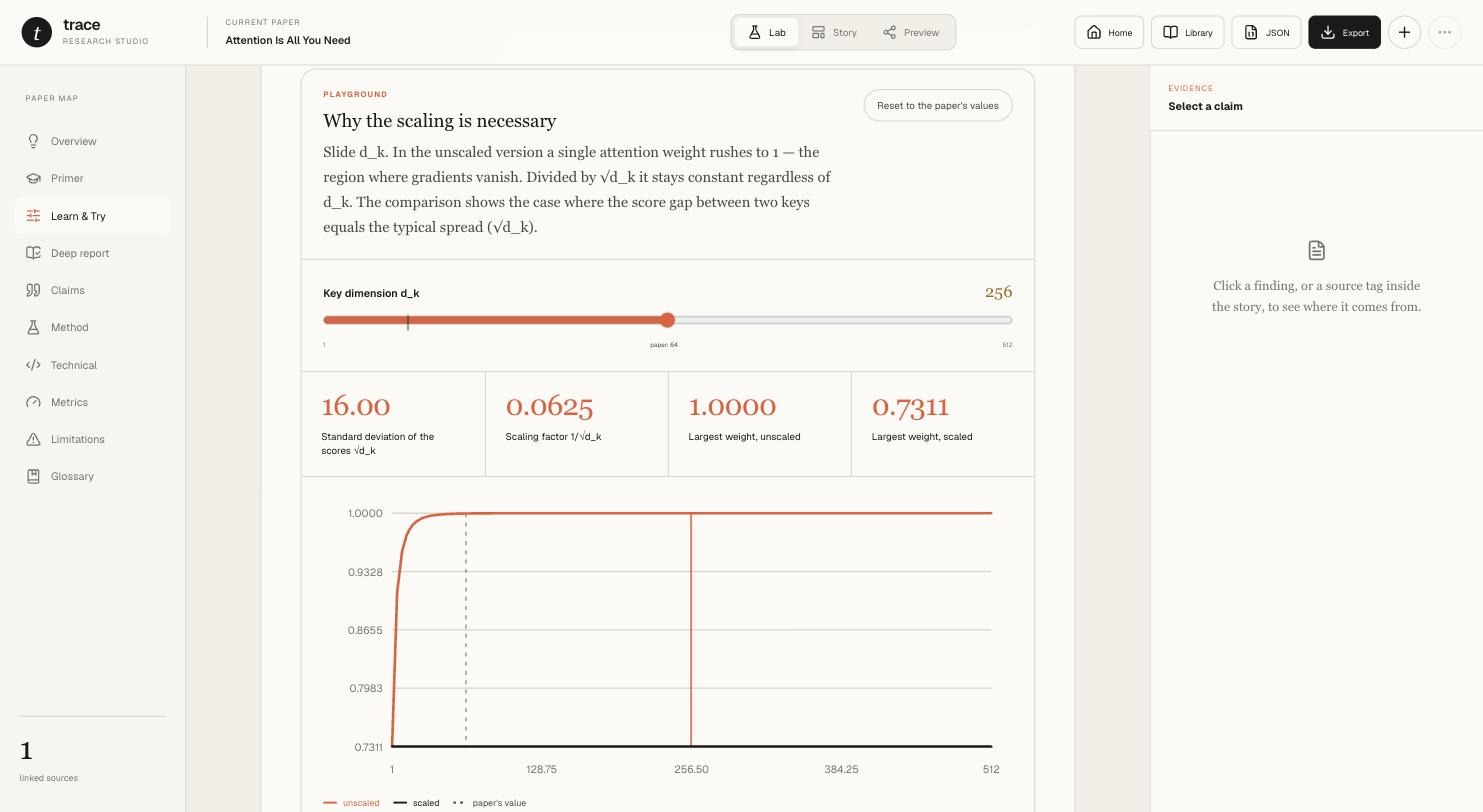
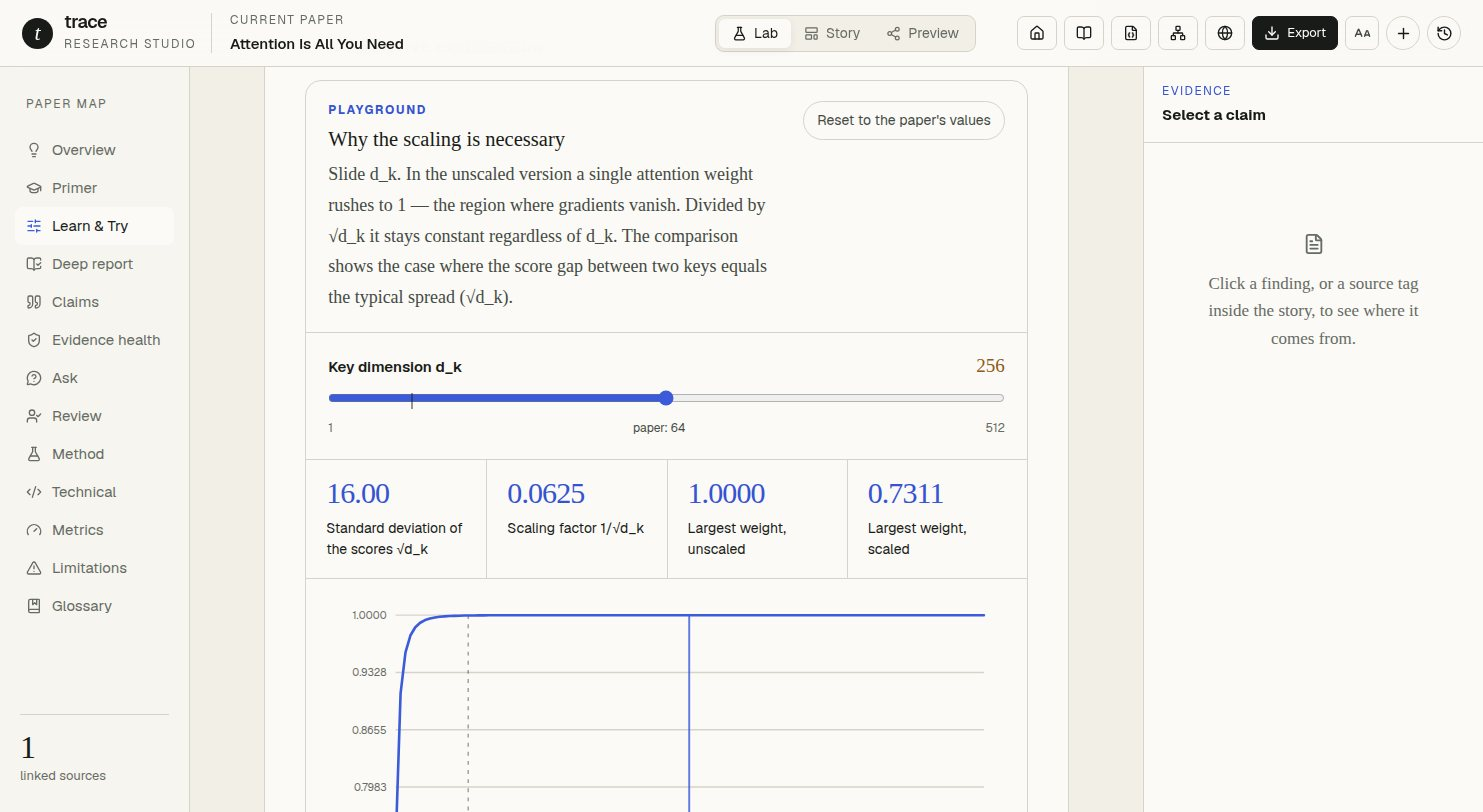
docs: bring the README and its screenshots up to date
- What's new lists everything on main since 0.21: claim search, tags,
  the model record, library sort and list view with undoable deletion,
  the dark theme and text size, and the remembered analysis setup.
- New sections: "Keep a growing library in order" and "Read it the way
  you like" (text size, light / dark / system, readable paper colours,
  the phone section menu, and what the contrast tests check).
- The full application: the remembered setup and More options; keys are
  never stored, in exports or in the browser. Status and roadmap list
  the new work; the architecture notes explain the token tests.
- Every screenshot is retaken from the current build (the old ones
  showed the previous header, smaller type and a Lab without Evidence
  health, Ask and Review), plus the claim search and the dark theme.
- Badge and diagram colours follow the darker amber and muted tokens.

Claude-Session: https://claude.ai/code/session_01G2h2AZCsPvmxhdU5Cg5ADb

diff --git a/README.md b/README.md
@@ -12,9 +12,9 @@ running on the coding agent you already use, with no second API key.
 [![Check](https://img.shields.io/github/actions/workflow/status/Ahmet-Ruchan/trace-research-paper-studio/check.yml?branch=main&style=for-the-badge&label=check&color=2E7254&labelColor=191B18)](https://github.com/Ahmet-Ruchan/trace-research-paper-studio/actions/workflows/check.yml)
 [![Stars](https://img.shields.io/github/stars/Ahmet-Ruchan/trace-research-paper-studio?style=for-the-badge&color=E75B37&labelColor=191B18)](https://github.com/Ahmet-Ruchan/trace-research-paper-studio/stargazers)
 [![Forks](https://img.shields.io/github/forks/Ahmet-Ruchan/trace-research-paper-studio?style=for-the-badge&color=2E7254&labelColor=191B18)](https://github.com/Ahmet-Ruchan/trace-research-paper-studio/network/members)
-[![Issues](https://img.shields.io/github/issues/Ahmet-Ruchan/trace-research-paper-studio?style=for-the-badge&color=A36A1E&labelColor=191B18)](https://github.com/Ahmet-Ruchan/trace-research-paper-studio/issues)
+[![Issues](https://img.shields.io/github/issues/Ahmet-Ruchan/trace-research-paper-studio?style=for-the-badge&color=8C5C18&labelColor=191B18)](https://github.com/Ahmet-Ruchan/trace-research-paper-studio/issues)
 [![License](https://img.shields.io/github/license/Ahmet-Ruchan/trace-research-paper-studio?style=for-the-badge&color=191B18&labelColor=191B18)](LICENSE)
-[![Last commit](https://img.shields.io/github/last-commit/Ahmet-Ruchan/trace-research-paper-studio?style=for-the-badge&color=71766F&labelColor=191B18)](https://github.com/Ahmet-Ruchan/trace-research-paper-studio/commits/main)
+[![Last commit](https://img.shields.io/github/last-commit/Ahmet-Ruchan/trace-research-paper-studio?style=for-the-badge&color=666B64&labelColor=191B18)](https://github.com/Ahmet-Ruchan/trace-research-paper-studio/commits/main)
 
 **Works with the agent you already have**
 
@@ -35,6 +35,17 @@ running on the coding agent you already use, with no second API key.
 ---
 
 ## What's new
+
+**On `main` since 0.21**
+
+| | |
+| --- | --- |
+| **[Search what your papers claim](#search-what-your-papers-claim)** | The library search looks through every claim of every paper, with its quote, page and trust marks. Click a result and the project opens on that claim. |
+| **[Group papers with tags](#group-papers-with-tags)** | A tag is a collection: filter by it, search only its claims, or compare and map it in one click. |
+| **[See how each model's quotes held up](#see-how-each-models-quotes-held-up)** | **Model record** adds up, per model, how many of its quotes were found on their page, with an honest range for small samples. Your agent has it too (`record`). |
+| **[Keep a growing library in order](#keep-a-growing-library-in-order)** | Sort by title or by the paper's year, switch to a compact list, and undo a deletion for eight seconds. |
+| **[Read it the way you like](#read-it-the-way-you-like)** | A dark theme, four text sizes, a readable colour for every paper, and a section menu on phones. |
+| **[The analysis screen remembers you](#the-full-application)** | Your last reader, depth, language, models and template come back for the next paper. API keys never do. |
 
 **0.21**
 
@@ -293,6 +304,8 @@ quote was found on its page, and what a reviewer decided. A rejected claim is st
 Every word you type must appear in the claim or its quote. Nothing but the claims is searched, and
 no model is asked. Click a result and the project opens on that claim.
 
+![Search the claims of every paper](docs/images/library.jpg)
+
 ### Group papers with tags
 
 Give a paper a tag from its library card and the tag becomes a collection. Pick it to see only those
@@ -300,6 +313,17 @@ papers, search only their claims, or compare and map them in one click. Typing "
 existing "NLP" tag instead of starting a second one. Tags belong to your library, not to the paper:
 they are kept in `~/.trace/library/tags.json`. So tagging a paper does not add a version to its
 history, does not change its `.trace.json`, and never goes out with a published link or an export.
+
+### Keep a growing library in order
+
+Sort the library by when a paper was last updated, by title, or by the paper's own year, newest or
+oldest first. The year is read from how it is written ("2017", "NeurIPS 2017"); papers without one go
+last. **List** turns the tall cards into one line each, so a long library fits on a screen. Both
+choices are kept in this browser.
+
+Deleting a paper asks for no confirmation. The card goes at once, and **Undo** (or Ctrl/⌘+Z) brings
+it back for eight seconds, with its history, tags and published links. Nothing is deleted on the
+server until then. Leaving the library or closing the page completes the deletion.
 
 ### See what a paper builds on, and what built on it
 
@@ -390,6 +414,29 @@ only you. When it is deployed somewhere public, it is everyone who has the link.
 
 Every claim and every story section has its own anchor, in the studio and in the portable
 single-file copy alike. The address bar tracks what is open, so the link is always there to copy.
+
+### Read it the way you like
+
+**Aa** in the header of the analysis screen, the library and a project sets the text size and the
+theme.
+
+- **Text size**: compact, default, large or larger (93.75% to 125%). Every size in the studio is on
+  one type scale in `rem`, so this choice and your browser's own font size setting both enlarge
+  everything together. The smallest text is 12 px.
+- **Theme**: light, dark, or **System**, which follows your device and changes when it does. The
+  choice is applied while the page loads, so a dark page never flashes white first. The standalone
+  site and published links stay light: a shared story looks the same for every reader.
+- **A readable colour for every paper.** Each paper has its own accent colour, and many of the
+  palette's colours are pale. Fills and icons use the colour as it is. Text uses the same hue at a
+  lightness that can be read: darker on the light theme, lighter on the dark one.
+- **On a phone**, the Lab's sections (up to thirteen) are a labelled menu at the top instead of a
+  row of unlabelled icons.
+
+In both themes, text reaches at least 4.5:1 against its background (3:1 for large headings), the
+WCAG AA level. Tests check the colour values, every paper colour as the browser draws it, and every
+visible text on eight screens in both themes. Both choices are kept in this browser.
+
+![The dark theme](docs/images/dark.jpg)
 
 ---
 
@@ -533,7 +580,7 @@ flowchart TD
     V -->|"passes"| OUT["Site + .trace.json"]
 
     style EV fill:#191b18,stroke:#191b18,color:#ffffff
-    style V fill:#a36a1e,stroke:#a36a1e,color:#ffffff
+    style V fill:#8c5c18,stroke:#8c5c18,color:#ffffff
     style X fill:#e75b37,stroke:#e75b37,color:#ffffff
     style OUT fill:#2e7254,stroke:#2e7254,color:#ffffff
 ```
@@ -551,10 +598,9 @@ The plugin is one way in. The web app adds generation with your own provider key
 narrative, and a local library. Projects are stored as files under `~/.trace/library`, shared by
 Codex, Claude Code, Antigravity and every Trace Studio launch directory. Existing browser-only
 projects migrate there automatically; removing a Library item removes its stored file and its
-version history and its tags. Deleting asks for no confirmation: the card goes at once and **Undo**
-(or Ctrl/⌘+Z) brings the project back, history, tags and published links included, for eight
-seconds. Leaving the library or closing the page completes the deletion. Earlier versions live under `~/.trace/library/revisions`, tags in
-`~/.trace/library/tags.json`, saved templates under `~/.trace/templates`.
+version history and its tags, after an eight-second window to undo it. Earlier versions live
+under `~/.trace/library/revisions`, tags in `~/.trace/library/tags.json`, saved templates under
+`~/.trace/templates`.
 
 ```bash
 git clone https://github.com/Ahmet-Ruchan/trace-research-paper-studio.git
@@ -574,13 +620,13 @@ rewrites only that section against the locked evidence. The same button appears 
 concepts, quiz questions, derivations and equations, and **Strengthen** in the evidence health
 panel rewrites a thin section with more evidence. The history button in the header opens
 earlier versions of the project. **Save as template** in `Story` keeps the structure for the next
-paper.
+paper. **Aa** sets the text size and the theme ([Read it the way you like](#read-it-the-way-you-like)).
 
-**Aa** in the header sets the text size, from compact to 125%. Every size in the studio is on one
-type scale in `rem`, so the choice and your browser's own font size setting both enlarge everything
-together. The smallest text is 12 px, and a test fails if a rule goes below it. The choice is kept
-in this browser only. A paper's colour is used as is for fills and icons; as text it is darkened to
-the same hue at a lightness every colour of the palette can be read at (4.5:1 or better).
+**The analysis screen remembers you.** Reader, depth, language, the model or the model team, and the
+narrative template of your last analysis come back for the next paper, in this browser. API keys are
+never kept: the stored record has no place for one, and a test checks that a key typed into the form
+is not in the browser's storage. Supporting sources and the template are under **More options**,
+which opens by itself when your last analysis used a template.
 
 <details>
 <summary><b>Model providers</b></summary>
@@ -594,7 +640,8 @@ the same hue at a lightness every colour of the palette can be read at (4.5:1 or
 
 Run everything on one model, or split the work across four roles — Evidence, Technical, Report
 and Visual — each with its own provider and key. Keys are used for the active request only;
-they are never written to local storage or included in exports.
+they are never written to local storage or included in exports. The rest of the setup is
+remembered in this browser for the next paper.
 
 The plugin path needs none of this: it uses whatever model your agent is already running.
 
@@ -693,6 +740,13 @@ npm run version:set -- 0.17.0  # write one version into the package and every pl
 
 <br>
 
+**Colours and type sizes are tokens, and tests hold them.** `src/visuals/tokens.css` is the one
+source for the studio, the standalone viewer and published pages: the type scale, the colours and
+their dark values. `src/lib/type-scale.test.ts` fails on a font size in `px` or below 12 px, on a
+paper colour used raw as text, on a text and background pair under 4.5:1 in either theme, and on
+the two copies of the dark values (chosen, and from the device) drifting apart. Add a colour as a
+token with a dark value rather than as a literal in a rule.
+
 **One render source, two runtimes.** The visual grammars and interactive components live in
 `src/visuals/` and are compiled twice — as real React for the app, and through preact for the
 standalone viewer. A grammar is written once instead of three times. `src/visuals/**` is an
@@ -724,6 +778,7 @@ src/
 ├── app/                        # Next.js app router, generation API, design system
 ├── components/                 # Workspace shell, Lab, Story editor, Preview, Library
 ├── visuals/                    # SHARED render layer — compiled for both hosts
+│   ├── tokens.css              #   type scale, colours and the dark theme
 │   ├── visual-renderer.tsx     #   eleven visual grammars
 │   ├── interactive/            #   playground · simulation · data explorer
 │   ├── teaching/               #   primer · derivations · quiz · application guide
@@ -792,7 +847,8 @@ the server.
 - Supplementary URLs are restricted by protocol, DNS/IP range, redirect count, response type,
   timeout and payload size.
 - PDF and web content are treated as source material, never as instructions.
-- Provider keys are used only for the active request and never appear in exports.
+- Provider keys are used only for the active request. They never appear in exports or in the
+  browser's storage: the remembered analysis setup has no field for a key.
 - Verified paper claims require an excerpt and a visible page number.
 - Comparison visuals may only use numeric values already recorded in evidence.
 - A publication is a filtered copy: blocks the author leaves out are removed from the served file,
@@ -818,7 +874,9 @@ templates, model speed tests before generation, shareable publications with
 publication controls,
 per-claim and per-section permalinks, resolution from a paper's name, DOI or repository link
 (arXiv, bioRxiv, medRxiv, PubMed Central, ACL Anthology), literature maps of up to six projects,
-citation graphs, local library, exports, the native plugin for Codex / Claude Code /
+citation graphs, a local library with claim search across papers, tags, sorting, a list view and
+undoable deletion, a per-model record of how quotes held up, a dark theme and an adjustable text
+size, exports, the native plugin for Codex / Claude Code /
 Antigravity CLI, and generation through Gemini, OpenAI, Claude, OpenRouter and a local model
 server (Ollama, LM Studio, llama.cpp).
 
@@ -860,6 +918,8 @@ the two from mixing.
 - [x] Quotes checked against the page text; Docker image and password protection
 - [x] Claim review by a person, quotes shown on the page, evidence-locked questions, Anki export
 - [x] Exports: reports, slides, runnable notebook, citations
+- [x] Claim search across the library, tags, and a per-model quote record
+- [x] Dark theme, adjustable text size, contrast-checked colours
 - [ ] Team review with accounts and shared annotations
 
 ---
